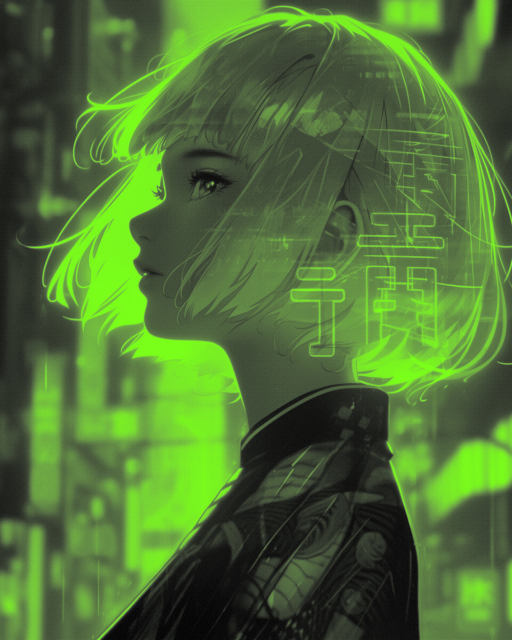
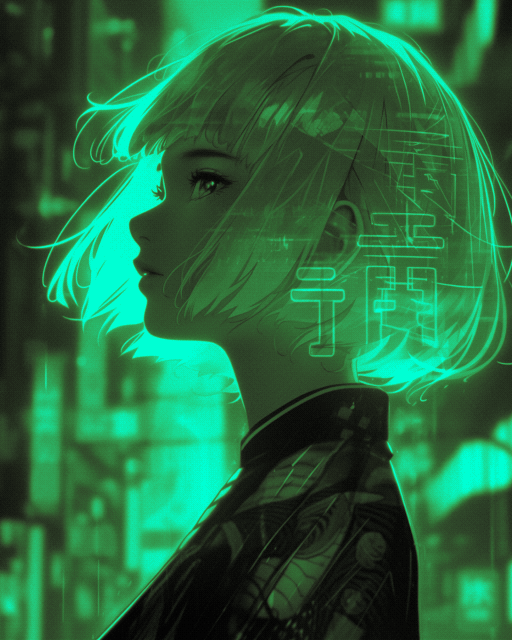
Huge commit - add new multihue color palette and new image examples

diff --git a/include/colormapping.py b/include/colormapping.py
@@ -63,14 +63,14 @@ def changePalette(img: np.typing.ArrayLike, LUT: typing.Dict) -> np.typing.Array
     return img
 
 
-def generatePalette(baseHue: int, availableColors: np.typing.ArrayLike, paletteRange: int):
+def generatePalette(baseHue: int, availableColors: np.typing.ArrayLike, hueRange: int, isReversed: bool):
     """Given a initial Hue, it generates a new color palette with len(availableColors) different gradients of the hue parameter.
     Note that the hue in the palette is the same, the only change is in the saturation and brightness values of the given hue.
 
     Args:
         baseHue (int)                        : The hue in HSV format. Should be a value between 0 and 359.
         availableColors (np.typing.ArrayLike): The availableColors that were used for quantization.
-        paletteRange (int)                   : By how much the hues in the palette can deviate from the baseHue.
+        hueRange (int)                       : By how much the hues in the palette can deviate from the baseHue.
 
     Returns:
         dict: A color LUT, where each value in the availableColors array is mapped to a HSV value.
@@ -101,19 +101,43 @@ def generatePalette(baseHue: int, availableColors: np.typing.ArrayLike, paletteR
     paletteSize = len(availableColors)
 
     # The S component dictates the saturation value.
-    sComponent = smoothLinspace(0.2, 0.8, paletteSize, 1.5)
+    sComponent = smoothLinspace(0.2, 1.0, paletteSize, 1.15)
     # The V componen dictates the brightness value.
     vComponent = smoothLinspace(0.0, 1.0, paletteSize, 1.15)
 
-    # Calculate two analogous hues. They are in the range [baseHue - range, baseHue + range] 
-    analogousHue1    = (baseHue + paletteRange) % 360
-    analogousHue2    = (baseHue - paletteRange) % 360
+    # Calculate the bounds for our hue values.
+    hueLowerBound    = (baseHue - hueRange) % 360
+    hueUpperBound    = (baseHue + hueRange) % 360
 
-    hueComponent = smoothLinspace(min(analogousHue1, analogousHue2), max(analogousHue1, analogousHue2), paletteSize, 1.15)
+    # For example, if baseHue = 10 and hueRange = 20, we need to make sure that the hueComponent
+    # is in the range [350, 30]. If we don't do this, it will go from [30, 350], the opposite of what
+    # we want. We use hueOffset to fix this edge case.
+    needsAdjusting   = False
+    if hueLowerBound > hueUpperBound:
+        needsAdjusting = True
+        hueOffset = 360 - hueLowerBound
+        hueLowerBound =  (hueLowerBound + hueOffset) % 360
+        hueUpperBound =  (hueUpperBound + hueOffset) % 360
 
+    # Now we can finally interpolate the values for our hues!
+    hueComponent = smoothLinspace(hueLowerBound, hueUpperBound, paletteSize, 1.15)
+    
+    # In case the offset exists, we need to convert our hue values back into their original
+    # range.
+    if needsAdjusting:
+        hueComponent    = hueComponent - hueOffset
+        negativeHueMask = hueComponent < 0
+        hueComponent[negativeHueMask] += 360
+
+    # Create the color LUT
     colorLUT = dict()
 
+    if isReversed:
+        hueComponent = hueComponent[:: -1]
+
+    # And finally add the values to it
     for idx in range(paletteSize):
         colorLUT[availableColors[idx]] = [hueComponent[idx], sComponent[idx], vComponent[idx]]
 
+    
     return colorLUT

diff --git a/include/parser.py b/include/parser.py
@@ -16,11 +16,13 @@ def make_parser():
     parser.add_argument('-g', '--grayscale', action='store_true', default=False,
                         help='Converts the image to grayscale before processing. The output will also be a grayscale image.')
 
-    parser.add_argument('-p', '--palette', type=int, default=None,
+    parser.add_argument('-hue', type=int, default=None,
                         help="Specify a hue value (google HSV color wheel) to convert the image to a different color palette. Super recommended to also use the -g option, because converting the color palette of an RGB image tends to give weird results.")
 
-    parser.add_argument('-pr', '--palette-range', type=int, default=0,
-                       help="By how much the color palette can vary. Default = 0")
+    parser.add_argument('-hue-range', type=int, default=0, choices=range(0, 180), metavar="[0-179]",
+                       help="By how much the hue in the color palette can vary. Default = 0.")
     
+    parser.add_argument('--reversed-palette', action='store_true', default=False,
+                        help="Reverses the color pallete. Instead of [hue - hue_range, hue + hue_range], it changes to [hue + hue_range, hue - hue_range].")
 
     return parser

diff --git a/main.py b/main.py
@@ -2,7 +2,7 @@ import numpy as np
 import PIL.Image
 
 import include.colormapping as colormapping
-import include.colorspace as colorspace
+import include.colormodel as colormodel
 import include.quantize as quantize
 import include.dither as dither
 import include.parser as parser
@@ -39,13 +39,13 @@ def main(args):
         if args.dithering is None:
             img = quantize.quantize(img, availableColors)
 
-        # Change the color palette
-        if args.palette is not None:
-            colorLUT = colormapping.generatePalette(args.palette, availableColors, args.palette_range)
+        # Change the color palette acording to a user-specified hue
+        if args.hue is not None:
+            colorLUT = colormapping.generatePalette(args.hue, availableColors, args.hue_range, args.reversed_palette)
             
-            hsvImg = colorspace.rgb2hsv(img)
+            hsvImg = colormodel.rgb2hsv(img)
             hsvImg = colormapping.changePalette(hsvImg, colorLUT)
-            img    = colorspace.hsv2rgb(hsvImg)
+            img    = colormodel.hsv2rgb(hsvImg)
 
 
     # Save the image

diff --git a/include/colormodel.py b/include/colormodel.py
@@ -3,7 +3,7 @@ import numpy as np
 
 def rgb2hsv(img: np.typing.ArrayLike) -> np.typing.ArrayLike:
     """
-    Converts an image from the RGB colorspace into the HSV colorspace (https://en.wikipedia.org/wiki/HSL_and_HSV#From_RGB)!
+    Converts an image from the RGB color model into the HSV color model (https://en.wikipedia.org/wiki/HSL_and_HSV#From_RGB)!
 
     WARNING: Lots of comments! I tried to make it as easy to understand as possible!
 

diff --git a/README.md b/README.md
@@ -21,25 +21,19 @@ Here's how it works:
 3. Color Mapping - A [Color LUT](https://en.wikipedia.org/wiki/3D_lookup_table) (Lookup Table) maps each grayscale value to a specific HSV value.
 
 
-The core idea is to **associate color with a single channel in the image**, rather than with 3 channels, like it is with RGB. This makes it much easier to manipulate color, and for this reason I opted for the [HSV colorspace](https://en.wikipedia.org/wiki/HSL_and_HSV).
+The core idea is to **associate color with a single channel in the image**, rather than with 3 channels, like it is with RGB. This makes it much easier to manipulate color, and for this reason I opted for the [HSV color model](https://en.wikipedia.org/wiki/HSL_and_HSV).
 
-After a **Base Hue** is specified with the ```-p``` option, a **color palette for that Hue will be created on-the-fly**. 
+After a **Base Hue** is specified, a **color palette for that Hue will be created on-the-fly**. 
 
-It's also possible to specify a hue range with the ```-pr``` option. This controls how much other the available hues in the palette can deviate from the Base Hue. For more information, read the Wiki!
+It's also possible to specify a hue range. This controls how much the available hues in the color palette can deviate from the Base Hue. For more information, read the Wiki!
 
 Some examples:
 
-**Original Image (Credit to [Keith Griego](https://www.artstation.com/artwork/dKR0xw) on Artstation) - 16 Million Colors** 
 
-![Anime girl - original](assets/animegirl_original.png)
+| **Original Image (Credit to [Keith Griego](https://www.artstation.com/artwork/dKR0xw) on Artstation), 16 Million Colors** | **Green Color Palette, 32 Colors, Base Hue = 130, Hue Range = 40** | **Blue Color Palette, 32 Colors, Base Hue = 260, Hue Range = 65, Reversed Hue = True** |
+|----------|-----------|----------------|
+| ![Anime girl - original](assets/animegirl_original.png) |  ![Anime girl - green](assets/animegirl_green.png) |  ![Anime girl - Blue](assets/animegirl_blue.png)|
 
-**Cyan Color Palette - 32 Colors**
-
-![Anime girl - cyan](assets/animegirl_cyan.png)
-
-**Green Color Palette - 32 Colors**
-
-![Anime girl - green](assets/animegirl_green.png)
 
 
 ## Quantization and Dithering 🟥 🟩 🟦 🟧 🟪
